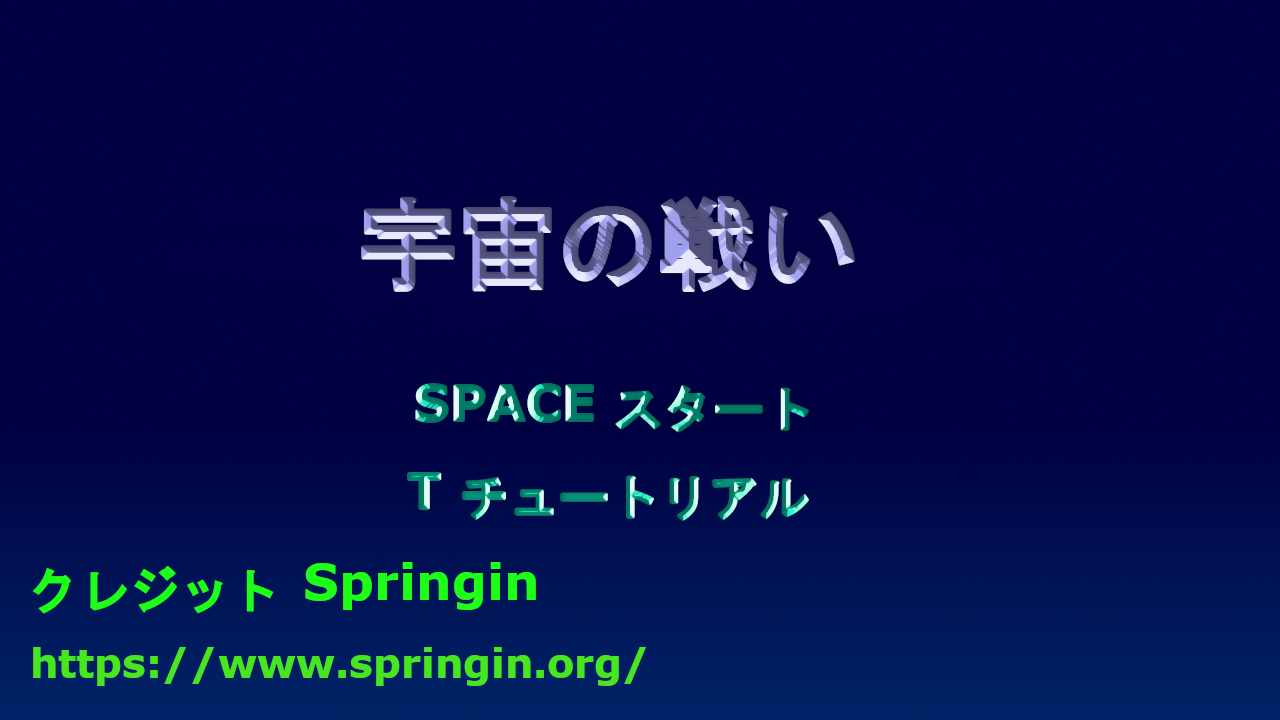
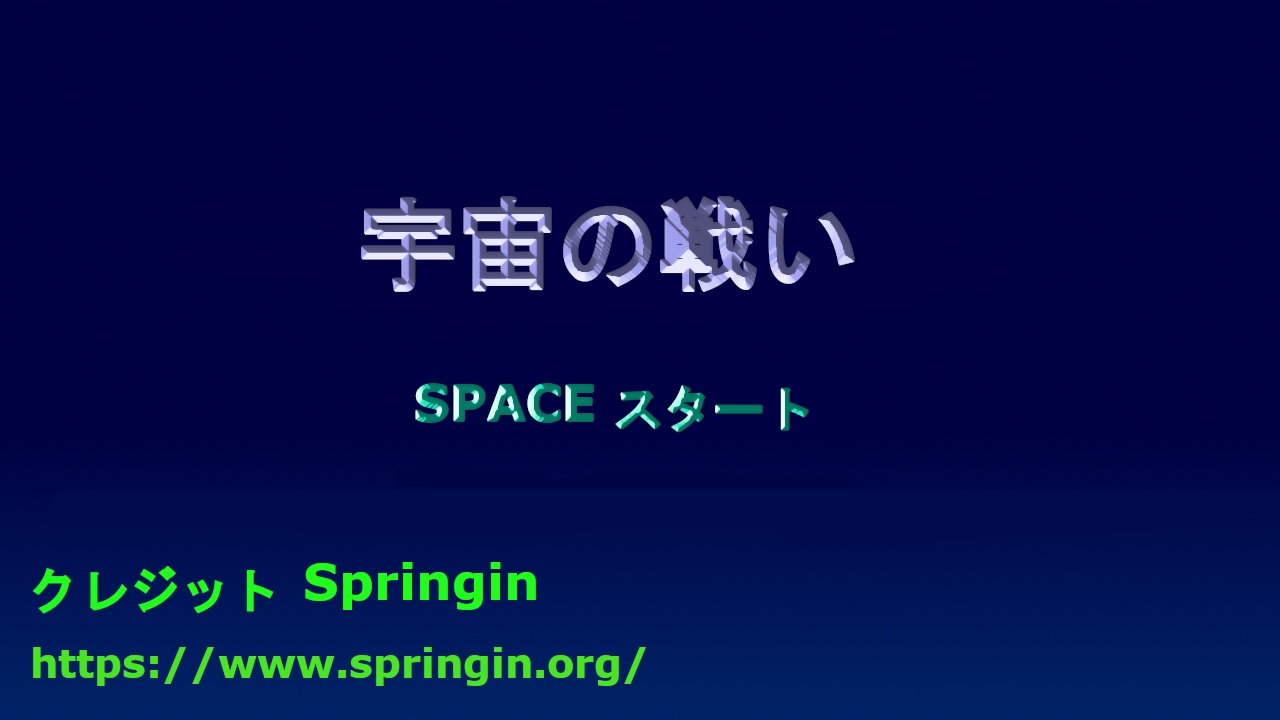
ブラッシュアップ

Changed region(s): [[0.3125, 0.6417, 0.625, 0.7333]]

diff --git a/EnemyBullet.cpp b/EnemyBullet.cpp
@@ -36,8 +36,8 @@ void EnemyBullet::Initialize(KamataEngine::Model* model, Camera* camera, const K
 	isShot = false;
 	
 
-	shotT = 100.0f;
-	shotC = 110.0f;
+	shotT = 30.0f;
+	shotC = 40.0f;
 
 
 }
@@ -51,8 +51,8 @@ void EnemyBullet::Update()
 		shotC--;
 		if (shotC <= 0.0f) 
 		{
-			isShot = true;
-			shotT = 100.0f;
+		    isShot = true;
+			shotT = 30.0f;
 		}
 	}
 
@@ -63,86 +63,10 @@ void EnemyBullet::Update()
 		if (shotT <= 0.0f) 
 		{
 			isShot = false;
-			shotC = 110.0f;
+			shotC = 40.0f;
 		}
 	}
 
-	/*
-
-	
-	if (isShot == 1)
-	{
-		bulletCount++;
-		
-	}
-
-	if (bulletCount == 3)
-	{
-		isShot = false;
-		shotC--;
-		if (shotC == 0.0f)
-		{
-			shotC = 100.0f;
-			isShot = true;
-		}
-	}
-	
-
-
-
-
-	
-
-	
-
-
-
-*/
-
-	// 弾を移動
-	
-	/*
-	// 状態ごとに処理を分ける
-	switch (bulletState_) 
-	{
-	case EnemyBulletState::ON:
-		
-		
-		
-
-		// ランダム行動タイマー
-		ActionTimer_ += 0.1f / 30.0f;
-
-		isShot = true;
-
-		if (isShot == 1) 
-		{
-			
-		}
-
-		// ランダム時間経過したら左移動へ
-		if (ActionTimer_ >= NextActionTime_) 
-		{
-			bulletState_ = EnemyBulletState::OFF;
-			ActionTimer_ = 0;
-			// 次の発生時間を再設定
-			NextActionTime_ = (rand() % 300) / 30.0f + 2.0f;
-		}
-
-		break;
-	case EnemyBulletState::OFF:
-
-		ActionTimer_ += 0.1f / 30.0f;
-		if (ActionTimer_ >= NextActionTime_) 
-		{
-			bulletState_ = EnemyBulletState::ON;
-			ActionTimer_ = 0;
-			// 次の発生時間を再設定
-			NextActionTime_ = (rand() % 300) / 30.0f + 2.0f;
-		}
-		break;
-	}
-*/
 
 	// アフィン変換行列
 	worldTransform_.matWorld_ = MakeAffineMatrix(worldTransform_.scale_, worldTransform_.rotation_, worldTransform_.translation_);
@@ -151,15 +75,14 @@ void EnemyBullet::Update()
 
 void EnemyBullet::Draw() 
 {
-	/*
-	if (bulletState_ == EnemyBulletState::ON)
-	{
-		
-
-	}*/
 	
 	// モデルの描画
-	model_->Draw(worldTransform_, *camera_);
+	
+	if (isShot == 1)
+	{
+		model_->Draw(worldTransform_, *camera_);
+	}
+	
 	// 終了なら何もしない
 	if (isFinished_)
 	{

diff --git a/main.cpp b/main.cpp
@@ -217,23 +217,22 @@ void ChangeScene()
 
 		if (titleScene->IsFinishedT()) 
 		{
-			// 音声停止
-			Audio::GetInstance()->StopWave(TvoiceHandle_);
-
+			
 			// シーンの変更
 			scene = Scene::kTutorial;
 			// 新シーンの生成と初期化
 			tutorial = new Tutorial();
 			tutorial->Initialize();
 
-			// ゲームシーンの音楽を再生
-			GVoiceHandle_ = Audio::GetInstance()->PlayWave(gameHandle_, true);
+			
 		}
 
 		break;
 	case Scene::kTutorial:
 		if (tutorial->IsFinishedTU())
 		{
+			// 音声停止
+			Audio::GetInstance()->StopWave(TvoiceHandle_);
 
 			// シーンの変更
 			scene = Scene::kGame;
@@ -243,6 +242,8 @@ void ChangeScene()
 			// 新シーンの生成と初期化
 			gameScene = new GameScene();
 			gameScene->Initialize();
+			// ゲームシーンの音楽を再生
+			GVoiceHandle_ = Audio::GetInstance()->PlayWave(gameHandle_, true);
 		}
 		break;
 

diff --git a/PlayerBullet.cpp b/PlayerBullet.cpp
@@ -11,7 +11,8 @@
 using namespace KamataEngine;
 using namespace MathUtility;
 
-void PlayerBullet::Initialize(KamataEngine::Model* model, Camera* camera, const KamataEngine::Vector3& position, const KamataEngine::Vector3& velocity) {
+void PlayerBullet::Initialize(KamataEngine::Model* model, Camera* camera, const KamataEngine::Vector3& position, const KamataEngine::Vector3& velocity)
+{
 	// NULLポイントチェック
 	// assert(model);
 

diff --git a/GameScene.cpp b/GameScene.cpp
@@ -386,7 +386,7 @@ void GameScene::Draw()
 		{
 			// delete playerBullet_;
 			bullets_.clear();
-			playerBulletLifeTime = 2;
+			playerBulletLifeTime = 20;
 		}
 	}
 
